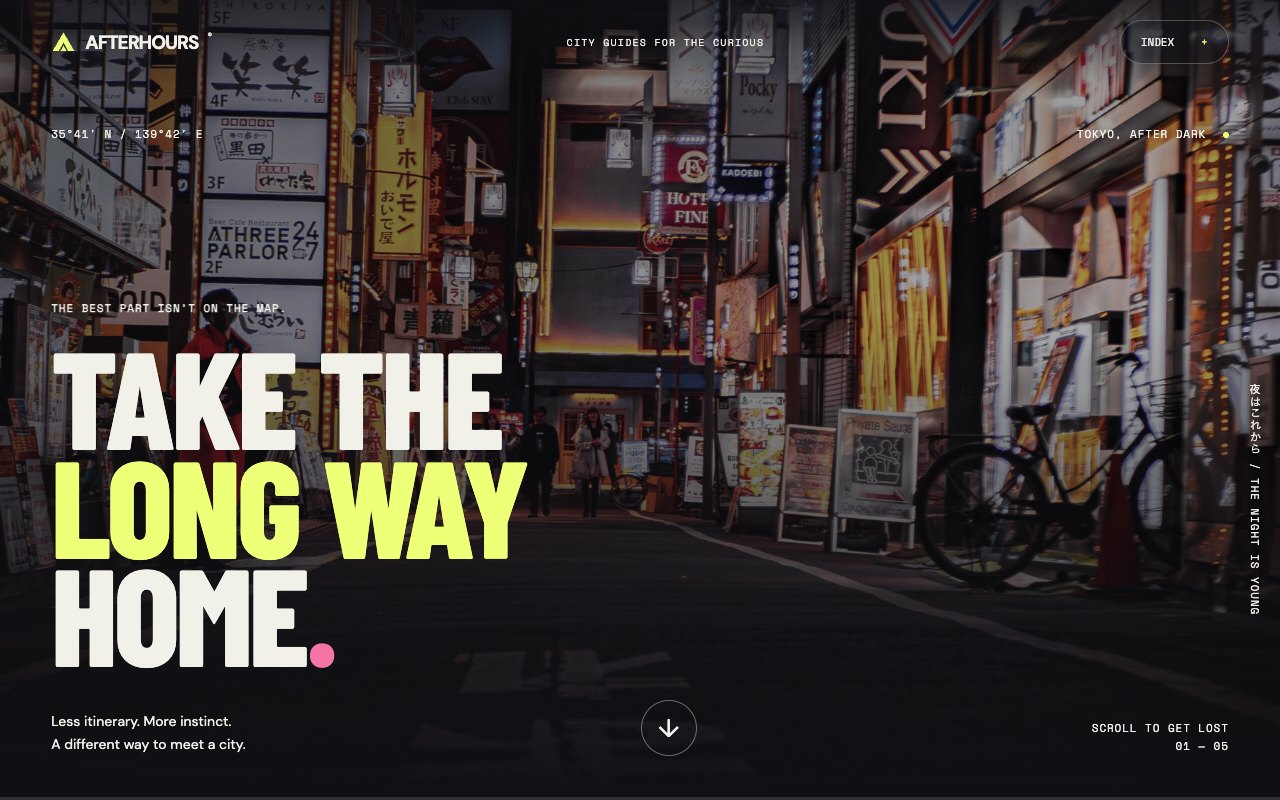
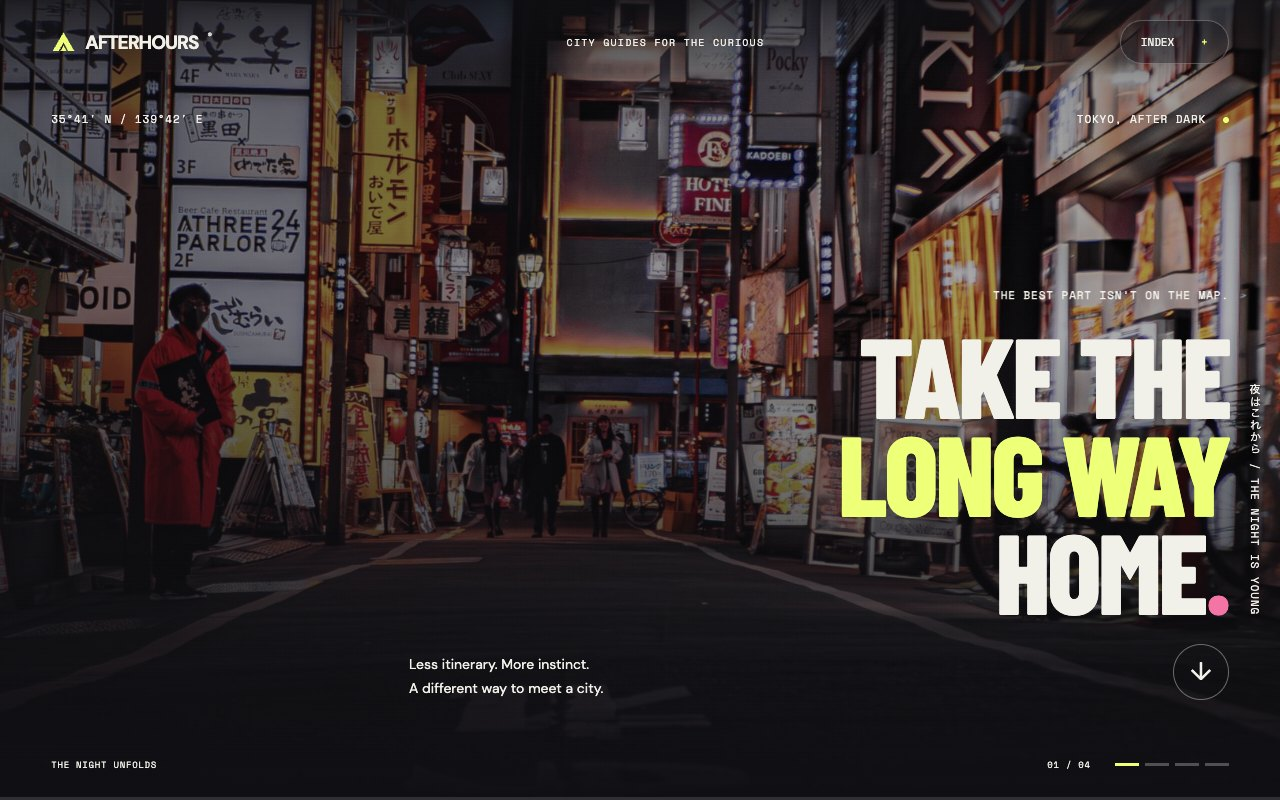
Rework Afterhours as one continuous scroll-driven film

diff --git a/public/showcase/afterhours/style.css b/public/showcase/afterhours/style.css
@@ -1,1 +1,6 @@
 :root{--ink:#101014;--paper:#f1f0e9;--accent:#eeff78;--pink:#f474a5;--pad:clamp(22px,4vw,76px);--display:'Barlow Condensed',Impact,sans-serif;--mono:'Space Mono',monospace}*{box-sizing:border-box}html{scroll-padding-top:80px}body{margin:0;background:var(--ink);color:var(--paper);font-family:'DM Sans',sans-serif}button,a{-webkit-tap-highlight-color:transparent}button{font:inherit;cursor:pointer}a{color:inherit;text-decoration:none}button{color:inherit}button:focus-visible,a:focus-visible{outline:3px solid var(--accent);outline-offset:5px}::selection{background:var(--accent);color:var(--ink)}.mono,.eyebrow{font:11px/1.7 var(--mono);letter-spacing:.08em}.eyebrow{font-weight:700}.header{position:fixed;top:0;left:0;width:100%;z-index:20;display:flex;align-items:center;justify-content:space-between;padding:20px var(--pad);background:linear-gradient(#101014b3,transparent);gap:20px}.brand{display:flex;align-items:center;gap:9px;font-weight:800;font-size:19px;letter-spacing:-1px;min-height:44px}.brand svg{width:25px;color:var(--accent)}.brand span{font-size:9px;align-self:flex-start;margin-top:10px}.header-note{font:10px var(--mono);letter-spacing:.12em}.menu-toggle{border:1px solid #ffffff40;border-radius:30px;background:#10101460;padding:12px 20px;min-height:44px;font:11px var(--mono)}.menu-toggle span{color:var(--accent);margin-left:20px}.menu{position:fixed;right:var(--pad);top:84px;z-index:21;background:var(--paper);color:var(--ink);padding:22px;box-shadow:0 20px 70px #0008;min-width:min(340px,calc(100vw - 44px))}.menu a{display:block;padding:14px 10px;border-bottom:1px solid #10101422;font-size:14px}.menu a:hover{background:var(--accent)}.skip{position:fixed;left:20px;top:-100px;background:var(--accent);color:var(--ink);padding:14px;z-index:100}.skip:focus{top:10px}.hero{min-height:680px;height:100svh;position:relative;overflow:hidden}.hero-media,.hero-shade{position:absolute;inset:0}.hero-media img{width:100%;height:100%;object-fit:cover;object-position:center 51%;filter:saturate(.7) brightness(.78);transform:scale(1.07);animation:arrival 2s cubic-bezier(.2,.7,.1,1) both}.hero-shade{background:linear-gradient(90deg,#10101470,transparent 85%),linear-gradient(0deg,#101014 0%,#10101420 60%,#10101445)}.hero-top{position:absolute;top:125px;left:var(--pad);right:var(--pad);display:flex;justify-content:space-between}.live-dot{display:inline-block;width:6px;height:6px;background:var(--accent);border-radius:50%;margin-left:9px}.hero-copy{position:absolute;bottom:44px;left:var(--pad);right:var(--pad)}h1,h2,p{margin:0}h1{font:800 clamp(80px,10.7vw,180px)/.79 var(--display);letter-spacing:-.025em;margin:24px 0 34px;max-width:1100px}h1>span:not(.period){color:var(--accent)}.period{color:var(--pink)}.hero-bottom{display:flex;justify-content:space-between;align-items:end}.hero-bottom p{font-size:14px;line-height:1.65}.hero-bottom>.mono{text-align:right}.circle-link{display:grid;place-items:center;width:56px;height:56px;border:1px solid #ffffff60;border-radius:50%;font-size:25px;transition:background .2s,color .2s}.circle-link:hover{background:var(--accent);color:var(--ink)}.vertical{position:absolute;right:16px;top:48%;writing-mode:vertical-rl}.statement{background:var(--paper);color:var(--ink);padding:100px var(--pad) 70px}.statement h2{font:800 clamp(64px,9.6vw,160px)/.87 var(--display);letter-spacing:-.025em;margin:55px 0}.statement em,.routes em{font-style:normal;color:#76766b}.statement-foot{display:flex;align-items:end;justify-content:space-between;gap:30px}.statement-foot p{font-size:16px;line-height:1.6}.star{font-size:90px;color:#878d31}.chapter{height:180vh;position:relative}.scene{height:100svh;min-height:650px;position:sticky;top:0;overflow:hidden}.scene picture{position:absolute;inset:-4%;}.scene picture img{height:100%;width:100%;object-fit:cover;filter:brightness(.7) saturate(.7);transform:scale(1.08)}.scene-shade{position:absolute;inset:0;background:linear-gradient(0deg,#101014dd,transparent 65%),linear-gradient(90deg,#10101488,transparent 85%)}.scene-top{position:absolute;left:var(--pad);right:var(--pad);top:115px;display:flex;justify-content:space-between}.scene-copy{position:absolute;left:var(--pad);top:32%;max-width:80%}.scene-copy h2{font:800 clamp(70px,9vw,150px)/.83 var(--display);letter-spacing:-.025em;margin:23px 0 28px}.scene-copy h2 span{color:var(--accent)}.scene-description{font-size:16px;line-height:1.7}.scene-bottom{position:absolute;bottom:30px;left:var(--pad);right:var(--pad);display:flex;justify-content:space-between}.route-ticket{position:absolute;bottom:90px;right:var(--pad);width:390px;background:var(--paper);color:var(--ink);padding:22px;transform:rotate(-4deg);box-shadow:0 20px 60px #0005}.route-ticket>div{display:flex;justify-content:space-between;align-items:center;margin:20px 0 8px;font:700 20px var(--display)}.route-ticket svg{width:100%;margin-bottom:12px}.route-ticket path{fill:none;stroke-width:2}.route-base{stroke:#ccc}.route-line{stroke:#4c5230;stroke-dasharray:440;stroke-dashoffset:440}.route-ticket circle{fill:#4c5230}.note-card{position:absolute;right:7%;bottom:100px;background:var(--accent);color:var(--ink);padding:25px;width:280px;transform:rotate(6deg)}.note-card p{font:700 62px/.95 var(--display);margin:30px 0}.floating-stamp{position:absolute;right:8%;bottom:120px;width:180px;height:180px;border:1px solid var(--accent);border-radius:50%;display:flex;flex-direction:column;justify-content:center;align-items:center;color:var(--accent);transform:rotate(15deg)}.floating-stamp strong{font:700 42px/.85 var(--display);margin:10px 0;text-align:center}.floating-stamp span{font-size:8px}.routes{padding:100px var(--pad);background:var(--paper);color:var(--ink)}.section-heading{position:relative}.section-heading h2{font:800 clamp(70px,9vw,150px)/.85 var(--display);margin:50px 0}.section-heading>p:last-child{position:absolute;right:10%;bottom:0;font-size:17px;line-height:1.6}.route-grid{display:grid;grid-template-columns:repeat(3,1fr);gap:20px}.route-card{position:relative;min-height:440px;border:0;background:var(--ink);padding:25px;text-align:left;color:var(--paper);overflow:hidden}.route-card img{position:absolute;inset:0;width:100%;height:100%;object-fit:cover;opacity:.6;transition:transform .7s,opacity .7s}.route-card:after{content:'';position:absolute;inset:0;background:linear-gradient(0deg,#101014ef,transparent)}.route-card:hover img{transform:scale(1.06);opacity:.85}.route-number{position:relative;z-index:1}.route-title{position:absolute;bottom:72px;left:25px;right:25px;font:700 clamp(40px,4.2vw,70px)/.9 var(--display);z-index:1}.route-title b{font-weight:400;color:var(--accent);float:right}.route-meta{position:absolute;bottom:25px;left:25px;z-index:1;font-size:9px}.end{background:var(--accent);color:var(--ink);padding:90px var(--pad) 65px}.end h2{font:800 clamp(90px,16vw,250px)/.78 var(--display);letter-spacing:-.025em;margin:60px 0}.end h2>span:not(.period){color:#818945}.end-bottom{display:flex;justify-content:space-between;align-items:end;gap:25px}.end-bottom p{font-size:13px;line-height:1.7}.pill{border:0;border-radius:40px;background:var(--ink);color:var(--paper);padding:20px 26px;display:inline-flex;align-items:center;gap:30px;font:11px var(--mono);min-height:52px}.pill:hover{background:#35353d}.replay{font:10px var(--mono);padding:16px 0}footer{display:flex;justify-content:space-between;padding:25px var(--pad);gap:25px;font:9px var(--mono);align-items:center}footer button{font:inherit;background:none;border:0;min-height:44px}.journey-progress{position:fixed;left:0;bottom:0;height:3px;background:#ffffff22;width:100%;z-index:30;pointer-events:none}.journey-progress span{display:block;background:var(--accent);height:100%;transform:scaleX(0);transform-origin:left}dialog{border:0;background:var(--paper);color:var(--ink);width:min(620px,calc(100vw - 32px));max-height:85svh;padding:45px;overflow-y:auto}dialog::backdrop{background:#101014d9;backdrop-filter:blur(7px)}.dialog-close{position:absolute;right:14px;top:10px;font-size:30px;background:none;border:0;color:var(--ink);width:44px;height:44px}.dialog-close:focus-visible{outline-color:var(--ink)}dialog h2{font:700 64px/.95 var(--display);margin:25px 0}dialog p{font-size:14px;line-height:1.7}dialog ol{list-style:none;padding:0;margin:28px 0;counter-reset:route}dialog ol li{counter-increment:route;padding:16px 0;border-top:1px solid #10101425;display:grid;grid-template-columns:35px 1fr;gap:10px}dialog ol li:before{content:'0' counter(route);font:11px var(--mono);color:#696b57}dialog li strong{display:block}dialog li p{font-size:12px;color:#55574b;margin-top:5px}.route-disclaimer{margin-bottom:22px;font-size:11px!important;color:#636454}.copy-status{min-height:25px;margin-top:10px}dialog ul{list-style:none;padding:0;margin:25px 0}dialog ul li a{display:block;padding:12px 0;border-bottom:1px solid #10101425;font-size:13px}dialog> a{font-size:12px;text-decoration:underline}.hero-copy{animation:intro 1.3s .15s both}.header{animation:intro .8s both}@keyframes intro{from{opacity:0;transform:translateY(25px)}to{opacity:1;transform:translateY(0)}}@keyframes arrival{from{transform:scale(1.14)}to{transform:scale(1.07)}}@media(min-width:1450px){.hero{min-height:700px}}@media(max-width:1000px){.route-ticket{width:310px}.note-card{width:235px}.note-card p{font-size:50px}.scene-copy h2{font-size:10vw}.scene-copy{top:28%}.route-grid{gap:12px}.route-card{min-height:380px;padding:20px}.end-bottom{flex-wrap:wrap}.header-note{display:none}}@media(max-width:700px){.header{padding-top:12px}.brand{font-size:16px}.menu-toggle{padding:10px 15px}.hero{min-height:730px;height:100svh}.hero-top{top:95px;font-size:8px;gap:18px}.hero-top span:last-child{text-align:right}.hero-media img{object-position:center}.hero-copy{bottom:32px}.eyebrow{font-size:9px}h1{font-size:clamp(78px,20vw,135px);margin:23px 0 32px;line-height:.82}.hero-bottom p{font-size:12px}.hero-bottom>.mono{display:none}.vertical{display:none}.hero-bottom{align-items:center}.circle-link{width:48px;height:48px}.statement{padding:70px var(--pad) 55px}.statement h2{font-size:16vw;margin:40px 0}.statement-foot{flex-wrap:wrap;gap:25px}.star{font-size:60px}.statement-foot p{font-size:13px}.statement-foot>.mono{display:none}.chapter{height:160vh}.scene{min-height:700px}.scene-top{top:95px;font-size:8px}.scene-top span:last-child{display:none}.scene-copy{top:24%;max-width:calc(100% - 44px)}.scene-copy h2{font-size:16vw;margin:20px 0}.scene-description{font-size:13px}.scene picture img{object-position:57% center}.route-ticket{width:calc(100% - 65px);right:32px;bottom:85px;padding:18px}.route-ticket .mono{font-size:8px}.route-ticket>div{margin-top:12px}.route-ticket svg{max-height:36px}.note-card{width:220px;right:32px;bottom:85px;padding:20px}.note-card p{font-size:45px;margin:15px 0}.note-card .mono{font-size:8px}.floating-stamp{width:145px;height:145px;bottom:85px;right:35px}.floating-stamp strong{font-size:34px}.scene-bottom{font-size:8px}.routes{padding:70px var(--pad)}.section-heading h2{font-size:19vw;margin:35px 0 22px}.section-heading>p:last-child{position:static;font-size:14px;margin-bottom:35px}.route-grid{grid-template-columns:1fr;gap:16px}.route-card{min-height:360px}.route-title{font-size:64px}.route-card img{object-position:center 55%}.end{padding:70px var(--pad) 45px}.end h2{font-size:25vw;margin:45px 0}.end-bottom{display:grid;gap:24px}.pill{padding:18px 22px;font-size:9px;gap:15px}.end-bottom .pill{justify-content:space-between}.replay{padding:12px 0}footer{flex-wrap:wrap;font-size:8px;gap:5px 20px}footer>span{order:3;width:100%;opacity:.55;padding-top:12px}dialog{padding:40px 24px}dialog h2{font-size:50px}.header-note{display:none}}@media(prefers-reduced-motion:reduce){*,*:before,*:after{animation:none!important;transition:none!important;scroll-behavior:auto!important}.chapter{height:auto}.scene{position:relative}.scene picture img{transform:none!important}.hero-media img{transform:none}.route-line{stroke-dashoffset:0}}
+
+/* One continuous pinned film, rather than independent scrolling cards. */
+.film{height:920svh;position:relative}.film-stage{position:sticky;top:0;height:100svh;overflow:hidden;background:var(--ink);isolation:isolate}.film-panel{position:absolute!important;inset:0;height:100%!important;min-height:0!important;margin:0;opacity:0;visibility:hidden;overflow:hidden}.film-panel:first-child{opacity:1;visibility:visible}.film-panel .scene{position:absolute;inset:0;height:100%;min-height:0}.film-panel .hero-media img{animation:none}.film-panel .hero-copy{animation:none}.film-panel picture img{will-change:transform}.film-panel .scene-copy,.film-panel .hero-copy{will-change:transform,opacity}.film-panel .hero-copy{bottom:100px;left:auto;right:var(--pad);width:min(65%,820px);text-align:right}.film-panel h1{font-size:clamp(75px,8.8vw,150px);line-height:.87;margin:20px 0 25px}.film-panel .hero-bottom{gap:20px}.film-panel .hero-bottom p{text-align:left}.film-panel .hero-bottom>.mono{display:none}.film-panel .hero-top,.film-panel .scene-top{top:110px}.film-panel .scene-copy{top:auto;bottom:135px;left:var(--pad)}.film-panel .scene-copy h2{font-size:clamp(65px,8.3vw,145px)}.film-panel .route-ticket,.film-panel .note-card,.film-panel .floating-stamp{bottom:160px}.film-panel .scene-bottom{display:none}.film-counter{position:absolute;left:var(--pad);right:var(--pad);bottom:28px;display:flex;align-items:center;gap:24px;z-index:10;font-size:9px;pointer-events:none}.film-counter strong{font-weight:400;margin-left:auto}.film-ticks{display:flex;gap:6px}.film-ticks i{width:24px;height:3px;background:#ffffff44}.film-ticks i.active{background:var(--accent)}
+@media(max-width:700px){.film{height:850svh}.film-panel .hero-copy{width:auto;left:var(--pad);bottom:100px;text-align:left}.film-panel h1{font-size:20vw}.film-panel .hero-top,.film-panel .scene-top{top:85px}.film-panel .scene-copy{top:22%;bottom:auto}.film-panel .scene-copy h2{font-size:16vw}.film-panel .route-ticket,.film-panel .note-card,.film-panel .floating-stamp{bottom:90px}.film-counter{font-size:7px;gap:12px}.film-ticks i{width:18px}.film-panel .hero-bottom p{font-size:12px}.film-panel .hero-media img{object-position:50% center}.film-panel .scene picture img{object-position:50% center}}
+@media(prefers-reduced-motion:reduce){.film{height:auto}.film-stage{position:relative;height:auto;overflow:visible}.film-panel{position:relative!important;height:100svh!important;min-height:650px!important;opacity:1!important;visibility:visible!important}.film-counter{display:none}.film-panel picture img{transform:none!important}.film-panel .hero-copy,.film-panel .scene-copy{transform:none!important;opacity:1!important}}

diff --git a/public/showcase/afterhours/index.html b/public/showcase/afterhours/index.html
@@ -5,11 +5,7 @@
 <header class="header"><a class="brand" href="#home" aria-label="Afterhours home"><svg viewBox="0 0 32 32" aria-hidden="true"><path d="M2 27 16 3l14 24h-8l-6-11-6 11ZM12 27l4-7 4 7Z" fill="currentColor"/></svg>AFTERHOURS<span>®</span></a><span class="header-note">CITY GUIDES FOR THE CURIOUS</span><button class="menu-toggle" aria-expanded="false" aria-controls="menu">INDEX <span>+</span></button></header>
 <nav id="menu" class="menu" aria-label="Project navigation" hidden><a href="#home">01 / The invitation</a><a href="#story">02 / The other Tokyo</a><a href="#routes">03 / Choose your night</a><a href="#end">04 / The next turn</a><a href="/showcase">Back to Hemal’s showcase ↗</a></nav>
 <main>
-<section id="home" class="hero"><picture class="hero-media"><source media="(max-width:700px)" srcset="media/city-mobile.jpg"><img src="media/city.jpg" alt="Neon signs illuminating a Tokyo street at night" fetchpriority="high" width="1920" height="2560"></picture><div class="hero-shade"></div><div class="hero-top mono"><span>35°41′ N / 139°42′ E</span><span>TOKYO, AFTER DARK <i class="live-dot"></i></span></div><div class="hero-copy"><p class="eyebrow">THE BEST PART ISN’T ON THE MAP.</p><h1>TAKE THE<br><span>LONG WAY</span><br>HOME<span class="period">.</span></h1><div class="hero-bottom"><p>Less itinerary. More instinct.<br>A different way to meet a city.</p><a href="#story" class="circle-link" aria-label="Scroll into the story">↓</a><span class="mono">SCROLL TO GET LOST<br>01 — 05</span></div></div><span class="vertical mono" aria-hidden="true">夜はこれから / THE NIGHT IS YOUNG</span></section>
-<section class="statement" id="story"><p class="mono">THE OTHER SIDE OF THE CITY / 01</p><h2>YOU’VE SEEN<br>THE POSTCARD.<br><em>NOW STEP<br>OUTSIDE IT.</em></h2><div class="statement-foot"><span class="star" aria-hidden="true">✳</span><p>A train you almost missed. A turn you didn’t plan.<br>A tiny place with a very big welcome.<br>That’s where the story starts.</p><span class="mono">NO CHECKLISTS.<br>JUST GOOD DETOURS.</span></div></section>
-<section class="chapter" id="chapter-rail" data-chapter="01"><div class="scene"><picture><source media="(max-width:700px)" srcset="media/rail-mobile.jpg"><img src="media/rail.jpg" alt="Tokyo railway and city buildings lit at night" loading="lazy" width="1920" height="1280"></picture><div class="scene-shade"></div><div class="scene-top mono"><span>01 / CHANGE YOUR PERSPECTIVE</span><span>THE CITY KEEPS MOVING.</span></div><div class="scene-copy"><p class="eyebrow">LEAVE THE OBVIOUS BEHIND.</p><h2>ONE STOP<br><span>PAST THE PLAN.</span></h2><p class="scene-description">The right route isn’t always the shortest.<br>Sometimes, it’s the one with a window seat.</p></div><div class="route-ticket"><span class="mono">AN EVENING, REIMAGINED</span><div><strong>THE USUAL</strong><span>↗</span><strong>THE UNEXPECTED</strong></div><svg viewBox="0 0 400 44" aria-hidden="true"><path class="route-base" d="M5 34H85Q100 34 115 22L138 8H225Q239 8 254 23L268 34H395"/><path class="route-line" d="M5 34H85Q100 34 115 22L138 8H225Q239 8 254 23L268 34H395"/><circle cx="5" cy="34" r="4"/><circle cx="395" cy="34" r="4"/></svg><span class="mono">MAKE ROOM FOR A DETOUR.</span></div><div class="scene-bottom mono"><span>KEEP GOING ↓</span><span>01 / 03</span></div></div></section>
-<section class="chapter" id="chapter-food" data-chapter="02"><div class="scene"><picture><source media="(max-width:700px)" srcset="media/ramen-mobile.jpg"><img src="media/ramen.jpg" alt="Warm lights outside a small Japanese ramen restaurant" loading="lazy" width="1920" height="1280"></picture><div class="scene-shade"></div><div class="scene-top mono"><span>02 / FOLLOW THE WARM LIGHT</span><span>GOOD THINGS COME IN SMALL PLACES.</span></div><div class="scene-copy"><p class="eyebrow">NO RESERVATION FOR THIS FEELING.</p><h2>SMALL DOOR.<br><span>BIG NIGHT.</span></h2><p class="scene-description">Forget the perfect photograph.<br>Find a place you’ll remember without one.</p></div><div class="note-card"><span class="mono">A NOTE TO YOUR FUTURE SELF</span><p>“Stay for<br>one more.”</p><span class="mono">THE STORIES CAN WAIT.</span></div><div class="scene-bottom mono"><span>STAY A LITTLE LONGER ↓</span><span>02 / 03</span></div></div></section>
-<section class="chapter" id="chapter-city" data-chapter="03"><div class="scene"><picture><source media="(max-width:700px)" srcset="media/crossing-mobile.jpg"><img src="media/crossing.jpg" alt="A vibrant Tokyo intersection with trains and illuminated city signs" loading="lazy" width="1920" height="1280"></picture><div class="scene-shade"></div><div class="scene-top mono"><span>03 / FIND YOUR OWN RHYTHM</span><span>EVERY TURN IS A NEW BEGINNING.</span></div><div class="scene-copy"><p class="eyebrow">THE NIGHT DOESN’T NEED A SCRIPT.</p><h2>LET THE CITY<br><span>CHANGE YOU.</span></h2><p class="scene-description">Leave enough space for a surprise.<br>That’s the whole idea.</p></div><div class="floating-stamp mono"><span>TAKE</span><strong>THE<br>DETOUR</strong><span>AFTERHOURS / TOKYO</span></div><div class="scene-bottom mono"><span>YOUR NIGHT STARTS HERE ↓</span><span>03 / 03</span></div></div></section>
+<div class="film" aria-label="A scroll-driven evening in Tokyo"><div class="film-stage"><section id="home" class="hero film-panel" data-film="0"><picture class="hero-media"><source media="(max-width:700px)" srcset="media/city-mobile.jpg"><img src="media/city.jpg" alt="Neon signs illuminating a Tokyo street at night" fetchpriority="high" width="1920" height="2560"></picture><div class="hero-shade"></div><div class="hero-top mono"><span>35°41′ N / 139°42′ E</span><span>TOKYO, AFTER DARK <i class="live-dot"></i></span></div><div class="hero-copy"><p class="eyebrow">THE BEST PART ISN’T ON THE MAP.</p><h1>TAKE THE<br><span>LONG WAY</span><br>HOME<span class="period">.</span></h1><div class="hero-bottom"><p>Less itinerary. More instinct.<br>A different way to meet a city.</p><a href="#chapter-rail" class="circle-link" aria-label="Scroll into the story">↓</a><span class="mono">SCROLL TO GET LOST<br>01 — 05</span></div></div><span class="vertical mono" aria-hidden="true">夜はこれから / THE NIGHT IS YOUNG</span></section><section class="chapter film-panel" data-film="1" id="chapter-rail" data-chapter="01"><div class="scene"><picture><source media="(max-width:700px)" srcset="media/rail-mobile.jpg"><img src="media/rail.jpg" alt="Tokyo railway and city buildings lit at night" loading="eager" width="1920" height="1280"></picture><div class="scene-shade"></div><div class="scene-top mono"><span>01 / CHANGE YOUR PERSPECTIVE</span><span>THE CITY KEEPS MOVING.</span></div><div class="scene-copy"><p class="eyebrow">LEAVE THE OBVIOUS BEHIND.</p><h2>ONE STOP<br><span>PAST THE PLAN.</span></h2><p class="scene-description">The right route isn’t always the shortest.<br>Sometimes, it’s the one with a window seat.</p></div><div class="route-ticket"><span class="mono">AN EVENING, REIMAGINED</span><div><strong>THE USUAL</strong><span>↗</span><strong>THE UNEXPECTED</strong></div><svg viewBox="0 0 400 44" aria-hidden="true"><path class="route-base" d="M5 34H85Q100 34 115 22L138 8H225Q239 8 254 23L268 34H395"/><path class="route-line" d="M5 34H85Q100 34 115 22L138 8H225Q239 8 254 23L268 34H395"/><circle cx="5" cy="34" r="4"/><circle cx="395" cy="34" r="4"/></svg><span class="mono">MAKE ROOM FOR A DETOUR.</span></div><div class="scene-bottom mono"><span>KEEP GOING ↓</span><span>01 / 03</span></div></div></section><section class="chapter film-panel" data-film="2" id="chapter-food" data-chapter="02"><div class="scene"><picture><source media="(max-width:700px)" srcset="media/ramen-mobile.jpg"><img src="media/ramen.jpg" alt="Warm lights outside a small Japanese ramen restaurant" loading="eager" width="1920" height="1280"></picture><div class="scene-shade"></div><div class="scene-top mono"><span>02 / FOLLOW THE WARM LIGHT</span><span>GOOD THINGS COME IN SMALL PLACES.</span></div><div class="scene-copy"><p class="eyebrow">NO RESERVATION FOR THIS FEELING.</p><h2>SMALL DOOR.<br><span>BIG NIGHT.</span></h2><p class="scene-description">Forget the perfect photograph.<br>Find a place you’ll remember without one.</p></div><div class="note-card"><span class="mono">A NOTE TO YOUR FUTURE SELF</span><p>“Stay for<br>one more.”</p><span class="mono">THE STORIES CAN WAIT.</span></div><div class="scene-bottom mono"><span>STAY A LITTLE LONGER ↓</span><span>02 / 03</span></div></div></section><section class="chapter film-panel" data-film="3" id="chapter-city" data-chapter="03"><div class="scene"><picture><source media="(max-width:700px)" srcset="media/crossing-mobile.jpg"><img src="media/crossing.jpg" alt="A vibrant Tokyo intersection with trains and illuminated city signs" loading="eager" width="1920" height="1280"></picture><div class="scene-shade"></div><div class="scene-top mono"><span>03 / FIND YOUR OWN RHYTHM</span><span>EVERY TURN IS A NEW BEGINNING.</span></div><div class="scene-copy"><p class="eyebrow">THE NIGHT DOESN’T NEED A SCRIPT.</p><h2>LET THE CITY<br><span>CHANGE YOU.</span></h2><p class="scene-description">Leave enough space for a surprise.<br>That’s the whole idea.</p></div><div class="floating-stamp mono"><span>TAKE</span><strong>THE<br>DETOUR</strong><span>AFTERHOURS / TOKYO</span></div><div class="scene-bottom mono"><span>YOUR NIGHT STARTS HERE ↓</span><span>03 / 03</span></div></div></section><div class="film-counter mono" aria-hidden="true"><span>THE NIGHT UNFOLDS</span><strong>01 / 04</strong><div class="film-ticks"><i></i><i></i><i></i><i></i></div></div></div></div><section class="statement" id="story"><p class="mono">THE OTHER SIDE OF THE CITY / 01</p><h2>YOU’VE SEEN<br>THE POSTCARD.<br><em>NOW STEP<br>OUTSIDE IT.</em></h2><div class="statement-foot"><span class="star" aria-hidden="true">✳</span><p>A train you almost missed. A turn you didn’t plan.<br>A tiny place with a very big welcome.<br>That’s where the story starts.</p><span class="mono">NO CHECKLISTS.<br>JUST GOOD DETOURS.</span></div></section>
 <section id="routes" class="routes"><div class="section-heading"><p class="mono">NO TWO NIGHTS THE SAME / 02</p><h2>WHAT’S<br><em>YOUR KIND</em><br>OF LOST?</h2><p>Start with a feeling.<br>See where it takes you.</p></div><div class="route-grid"><button class="route-card" data-route="neon"><img src="media/city-mobile.jpg" alt="" loading="lazy" width="900" height="1200"><span class="route-number mono">01 / ELECTRIC</span><span class="route-title">CHASE<br>THE NEON <b>↗</b></span><span class="route-meta mono">BRIGHT LIGHTS. BIG ENERGY.</span></button><button class="route-card" data-route="slow"><img src="media/rail-mobile.jpg" alt="" loading="lazy" width="900" height="600"><span class="route-number mono">02 / UNHURRIED</span><span class="route-title">TAKE<br>IT SLOW <b>↗</b></span><span class="route-meta mono">WINDOW SEATS. WANDERING FEET.</span></button><button class="route-card" data-route="taste"><img src="media/ramen-mobile.jpg" alt="" loading="lazy" width="900" height="600"><span class="route-number mono">03 / HUNGRY</span><span class="route-title">FOLLOW<br>THE FLAVOUR <b>↗</b></span><span class="route-meta mono">SMALL PLACES. GOOD COMPANY.</span></button></div></section>
 <section class="end" id="end"><p class="mono">THE GOOD PART IS THE JOURNEY / 03</p><h2>GO OUT.<br><span>GO OFF</span><br>SCRIPT<span class="period">.</span></h2><div class="end-bottom"><p>An original travel website concept.<br>Designed & built by Hemal Herath.</p><a class="pill" href="https://wa.me/94718850419?text=Hi%20Hemal%2C%20I%20like%20the%20Afterhours%20website%20concept.%20Can%20we%20discuss%20a%20project%3F" target="_blank" rel="noopener noreferrer">MAKE SOMETHING LIKE THIS <span>↗</span></a><a href="#home" class="replay">REPLAY THE JOURNEY ↑</a></div></section>
 </main><footer><a href="/showcase">← HEMAL’S SHOWCASE</a><span>AFTERHOURS / PORTFOLIO CONCEPT</span><button id="credits-open">PHOTO CREDITS ↗</button></footer>

diff --git a/public/showcase/afterhours/script.js b/public/showcase/afterhours/script.js
@@ -8,10 +8,31 @@ document.addEventListener('click',e=>{if(!menu.hidden&&!e.target.closest('#menu,
 let anchorFrame=0;
 function cancelScroll(){cancelAnimationFrame(anchorFrame)}
 addEventListener('wheel',cancelScroll,{passive:true});addEventListener('touchstart',cancelScroll,{passive:true});
-document.querySelectorAll('a[href^="#"]').forEach(a=>a.addEventListener('click',e=>{const target=document.querySelector(a.getAttribute('href'));if(!target)return;e.preventDefault();closeMenu();cancelScroll();const start=scrollY,end=target.getBoundingClientRect().top+start,t0=performance.now();history.replaceState(null,'',a.getAttribute('href'));if(reduce){scrollTo(0,end);return}function step(now){let t=Math.min(1,(now-t0)/1800),k=t<.5?4*t*t*t:1-Math.pow(-2*t+2,3)/2;scrollTo(0,start+(end-start)*k);if(t<1)anchorFrame=requestAnimationFrame(step)}anchorFrame=requestAnimationFrame(step)}));
-const chapters=[...document.querySelectorAll('.chapter')],bar=document.querySelector('.journey-progress span');let measurements=[],height=0,dirty=true;
-function measure(){height=document.documentElement.scrollHeight-innerHeight;measurements=chapters.map(el=>({el,top:el.offsetTop,length:Math.max(1,el.offsetHeight-innerHeight),image:el.querySelector('picture img'),copy:el.querySelector('.scene-copy'),line:el.querySelector('.route-line')}));dirty=true}
-let scheduled=false;function update(){scheduled=false;if(!dirty)return;dirty=false;const y=scrollY;bar.style.transform=`scaleX(${Math.min(1,y/Math.max(1,height))})`;if(reduce)return;for(const s of measurements){if(y+innerHeight<s.top||y>s.top+s.length+innerHeight)continue;const p=Math.max(0,Math.min(1,(y-s.top)/s.length));s.image.style.transform=`scale(${1.08+p*.09}) translateY(${-p*2}%)`;s.copy.style.transform=`translateY(${-p*30}px)`;if(s.line)s.line.style.strokeDashoffset=440*(1-p)}}function schedule(){dirty=true;if(!scheduled){scheduled=true;requestAnimationFrame(update)}}addEventListener('scroll',schedule,{passive:true});addEventListener('resize',()=>{measure();schedule()});addEventListener('load',()=>{measure();schedule()});document.fonts.ready.then(()=>{measure();schedule()});measure();schedule();
+document.querySelectorAll('a[href^="#"]').forEach(a=>a.addEventListener('click',e=>{const target=document.querySelector(a.getAttribute('href'));if(!target)return;e.preventDefault();closeMenu();cancelScroll();const start=scrollY,end=target.hasAttribute('data-film')?document.querySelector('.film').offsetTop+(Number(target.dataset.film)/3.65)*(document.querySelector('.film').offsetHeight-innerHeight):target.getBoundingClientRect().top+start,t0=performance.now();history.replaceState(null,'',a.getAttribute('href'));if(reduce){scrollTo(0,end);return}function step(now){let t=Math.min(1,(now-t0)/1800),k=t<.5?4*t*t*t:1-Math.pow(-2*t+2,3)/2;scrollTo(0,start+(end-start)*k);if(t<1)anchorFrame=requestAnimationFrame(step)}anchorFrame=requestAnimationFrame(step)}));
+const film=document.querySelector('.film'),panels=[...document.querySelectorAll('.film-panel')],bar=document.querySelector('.journey-progress span'),counter=document.querySelector('.film-counter strong'),ticks=[...document.querySelectorAll('.film-ticks i')];
+const clamp=n=>Math.max(0,Math.min(1,n));
+const smooth=n=>{n=clamp(n);return n*n*(3-2*n)};
+let filmTop=0,filmLength=1,pageLength=1,frame=0,activeScene=-1;
+function measure(){filmTop=film.offsetTop;filmLength=Math.max(1,film.offsetHeight-innerHeight);pageLength=Math.max(1,document.documentElement.scrollHeight-innerHeight);schedule()}
+function update(){frame=0;const progress=clamp((scrollY-filmTop)/filmLength),timeline=progress*3.65;bar.style.transform=`scaleX(${clamp(scrollY/pageLength)})`;if(reduce)return;
+const active=Math.min(3,Math.floor(timeline+.18));if(active!==activeScene){activeScene=active;counter.textContent=`0${active+1} / 04`;ticks.forEach((t,i)=>t.classList.toggle('active',i===active))}
+panels.forEach((panel,i)=>{const local=timeline-i;
+// New scene arrives before the previous scene leaves: the camera never cuts to a blank viewport.
+const enter=i===0?1:smooth((local+.26)/.38),exit=i===3?1:1-smooth((local-.75)/.35),opacity=enter*exit;
+panel.style.opacity=opacity;panel.style.visibility=opacity>.001?'visible':'hidden';panel.inert=opacity<.5;panel.setAttribute('aria-hidden',String(opacity<.5));
+if(opacity<.001)return;
+const image=panel.querySelector('picture img'),copy=panel.querySelector('.hero-copy,.scene-copy'),prop=panel.querySelector('.route-ticket,.note-card,.floating-stamp');
+const travel=clamp((local+.26)/1.36);
+// Wider camera travel on the invitation; push in on the station and pull back from dinner.
+const zoom=i===0?1.08+travel*.55:i===1?1.34-travel*.25:i===2?1.08+travel*.3:1.28-travel*.2;
+image.style.transform=`translate3d(${(travel-.5)*(i%2?4:-4)}%,${(travel-.5)*-3}%,0) scale(${zoom})`;
+const textIn=i===0?1:smooth((local+.08)/.3),textOut=i===3?1:1-smooth((local-.64)/.25);
+panel.querySelectorAll('.hero-top,.scene-top,.vertical').forEach(el=>{el.style.opacity=textIn*textOut});copy.style.opacity=textIn*textOut;copy.style.transform=`translate3d(0,${(1-textIn)*65-(1-textOut)*45}px,0)`;
+if(prop){const v=smooth((local-.18)/.33);prop.style.opacity=v*textOut;prop.style.transform=`translate3d(0,${(1-v)*90}px,0) rotate(${i===1?-4:i===2?6:15}deg)`}
+const line=panel.querySelector('.route-line');if(line)line.style.strokeDashoffset=440*(1-smooth((local-.2)/.45));
+});}
+function schedule(){if(!frame)frame=requestAnimationFrame(update)}
+addEventListener('scroll',schedule,{passive:true});addEventListener('resize',measure);addEventListener('load',measure);document.fonts.ready.then(measure);measure();
 const routes={neon:{title:'CHASE THE NEON.',intro:'An illustrative evening for people who like their cities loud, bright and a little unexpected.',stops:[['Start at Shinjuku','Let the illuminated streets set the mood.'],['Choose a side street','Step away from the main road and explore at your own pace.'],['Find a late dinner','Look for a welcoming place and check its opening hours.']]},slow:{title:'TAKE IT SLOW.',intro:'An illustrative evening with room to pause. The destination can wait.',stops:[['Take a window seat','Start with a train journey and watch the city change.'],['Walk without a checklist','Choose a neighbourhood and keep the evening flexible.'],['Stop for something warm','A quiet table is a perfectly good destination.']]},taste:{title:'FOLLOW THE FLAVOUR.',intro:'An illustrative evening built around one simple idea: make time for a good meal.',stops:[['Let the warm lights lead','Browse small restaurant streets and read the menus.'],['Choose your bowl','Find a dish you want to try; ask about ingredients and availability.'],['Stay for the conversation','Slow down. A good evening is more than the food.']]}};
 const dialog=document.querySelector('#route-dialog');let current='';document.querySelectorAll('[data-route]').forEach(b=>b.addEventListener('click',()=>{const r=routes[b.dataset.route];document.querySelector('#route-dialog-title').textContent=r.title;document.querySelector('#route-intro').textContent=r.intro;const ol=document.querySelector('#route-stops');ol.replaceChildren();r.stops.forEach(([title,text])=>{const li=document.createElement('li'),div=document.createElement('div'),strong=document.createElement('strong'),p=document.createElement('p');strong.textContent=title;p.textContent=text;div.append(strong,p);li.append(div);ol.append(li)});current=r.title+'\n'+r.stops.map((s,i)=>(i+1)+'. '+s.join(' — ')).join('\n');document.querySelector('.copy-status').textContent='';dialog.showModal()}));
 document.querySelector('.copy-route').addEventListener('click',async()=>{try{await navigator.clipboard.writeText(current);document.querySelector('.copy-status').textContent='Route copied. Your evening, your pace.'}catch{document.querySelector('.copy-status').textContent='Copy is unavailable here. You can select and copy the route above.'}});
